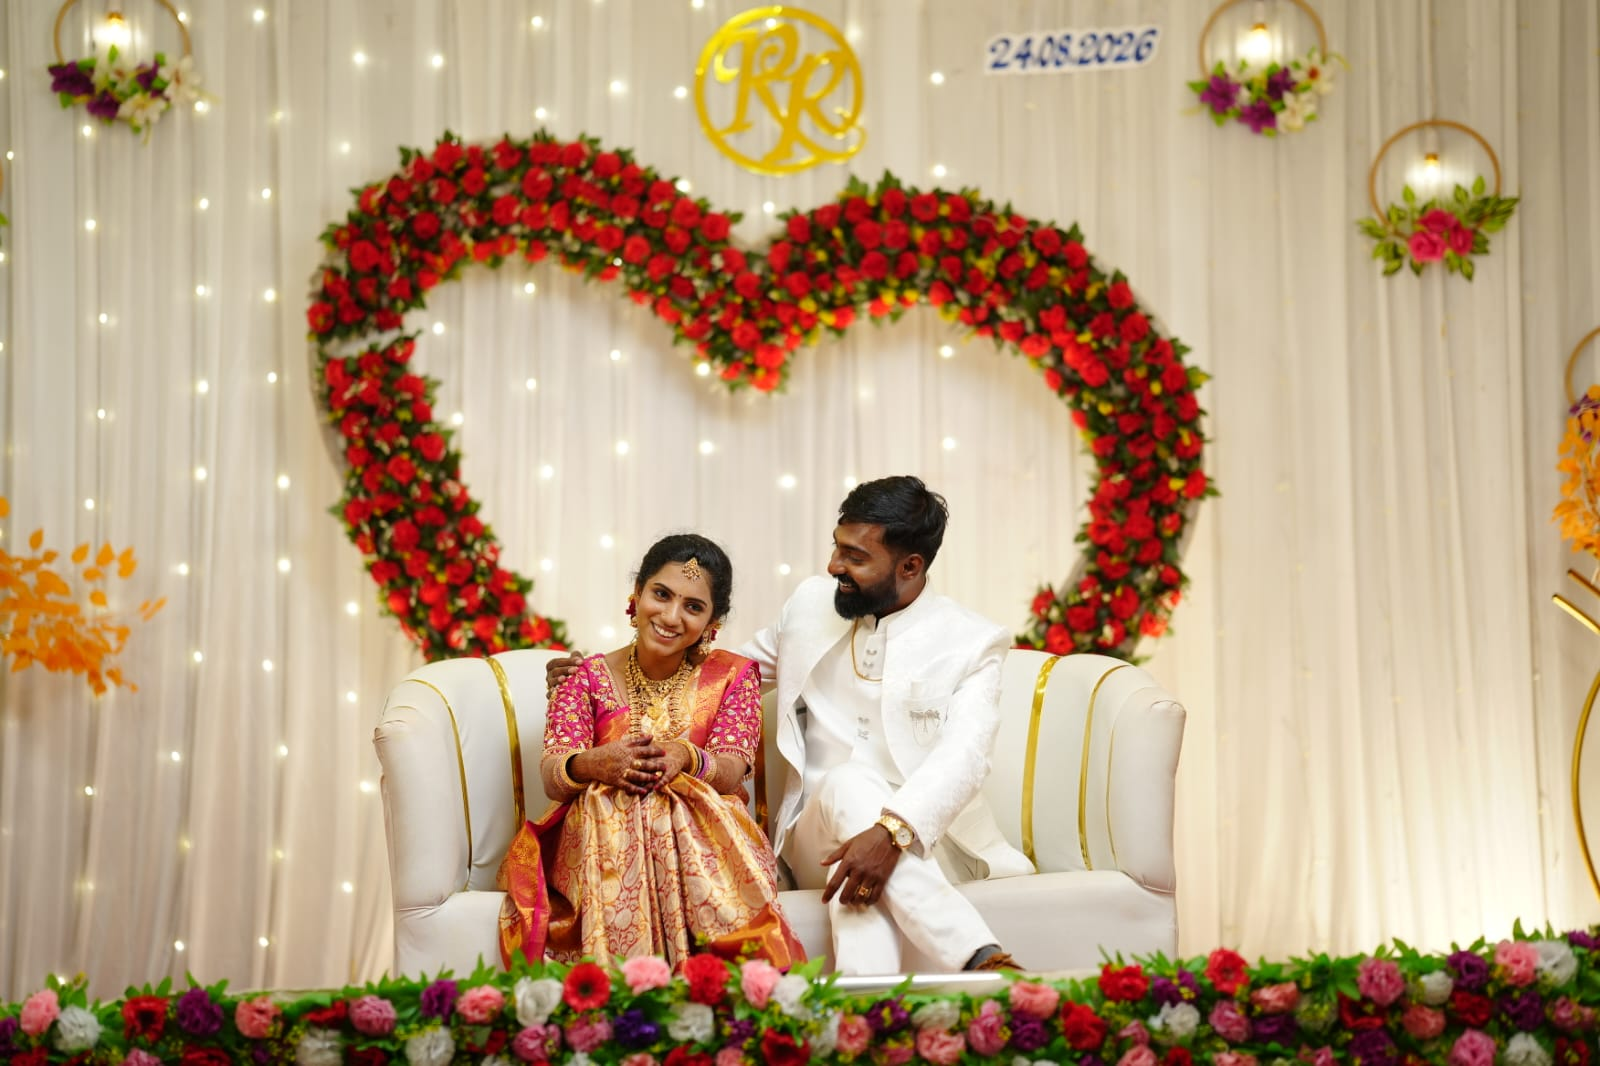
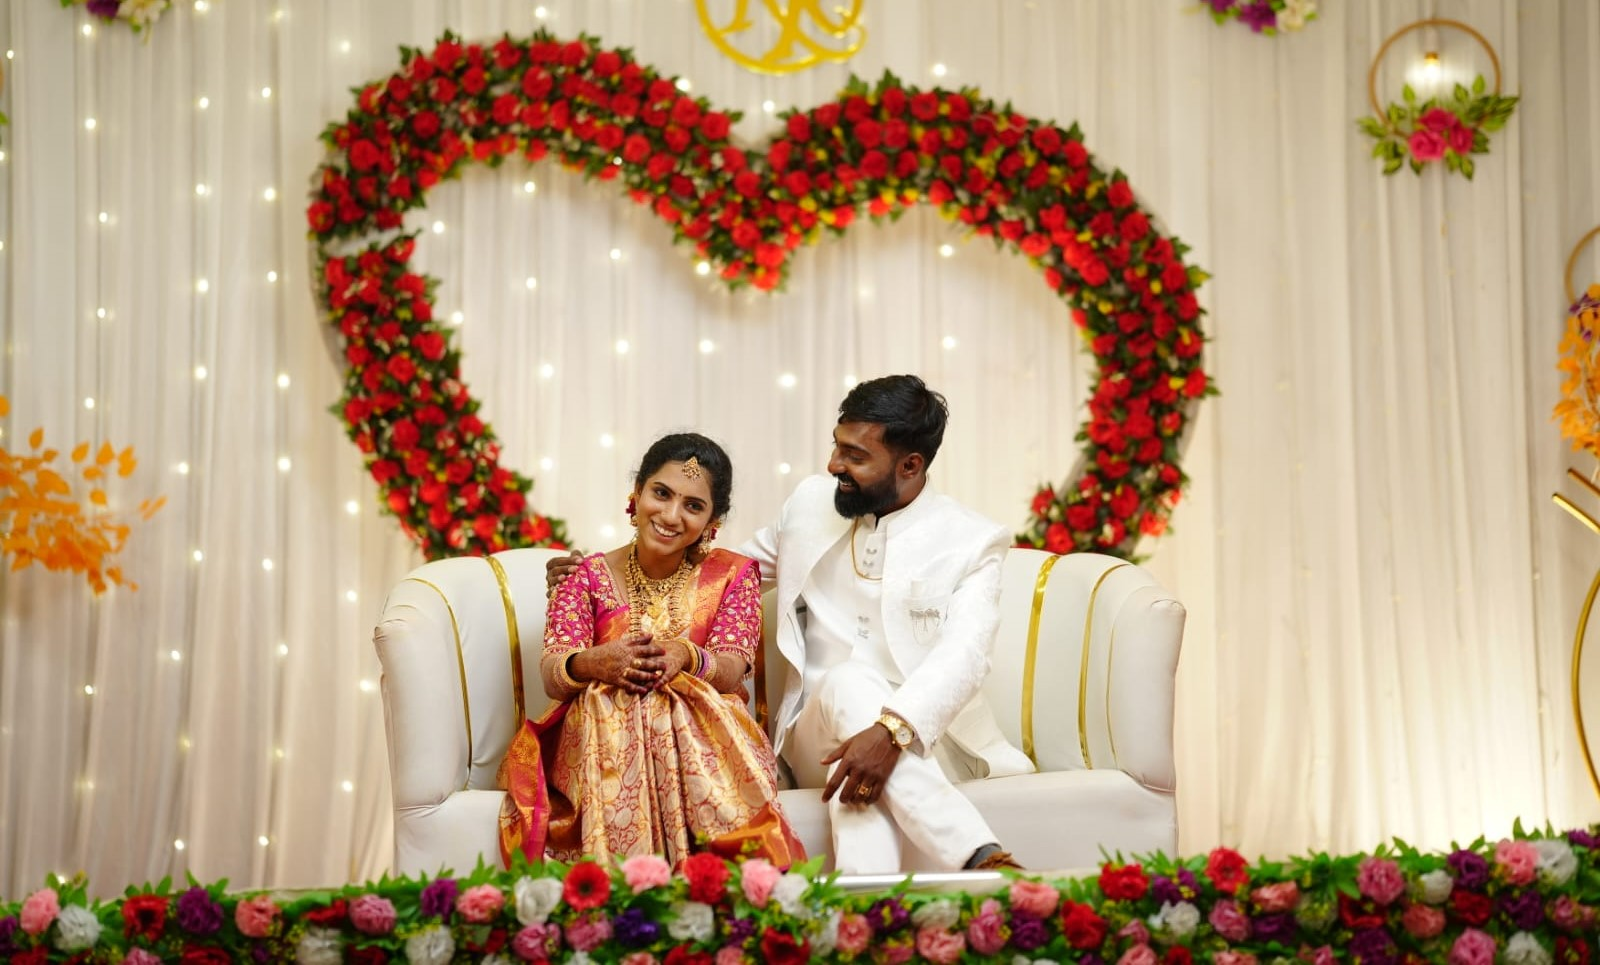
chnages update

diff --git a/styles.css b/styles.css
@@ -163,108 +163,6 @@ footer strong{
 
 
 
-
-/* =========================================================
-   FRONT PAGE — CENTER CLOSED -> SPLIT TO CORNERS
-   The rest of the V7 design is unchanged.
-   ========================================================= */
-
-#gate{
-  position:fixed;
-  inset:0;
-  z-index:100;
-  overflow:hidden;
-  cursor:pointer;
-  background:#f7efdf;
-  isolation:isolate;
-}
-
-.front-panel{
-  position:absolute;
-  top:0;
-  bottom:0;
-  width:50%;
-  z-index:2;
-  background-image:url("assets/front-cover.png");
-  background-repeat:no-repeat;
-  background-size:200% 100%;
-  box-shadow:0 0 0 1px rgba(173,135,64,.45);
-  will-change:transform;
-  transition:transform 1.35s cubic-bezier(.77,0,.18,1);
-}
-
-/* CLOSED STATE: both halves are together, forming one complete image. */
-.front-panel.left{
-  left:0;
-  background-position:left center;
-  transform:translateX(0);
-}
-.front-panel.right{
-  right:0;
-  background-position:right center;
-  transform:translateX(0);
-}
-
-/* Small center seam, like two elegant invitation doors. */
-#gate::after{
-  content:"";
-  position:absolute;
-  z-index:4;
-  left:50%;
-  top:0;
-  bottom:0;
-  width:2px;
-  transform:translateX(-50%);
-  background:linear-gradient(180deg,rgba(173,135,64,.15),rgba(173,135,64,.85),rgba(173,135,64,.15));
-  box-shadow:0 0 10px rgba(173,135,64,.25);
-  pointer-events:none;
-  opacity:.9;
-}
-
-/* On open: center -> left/right edges. */
-#gate.opened .front-panel.left{
-  transform:translateX(-100%);
-}
-#gate.opened .front-panel.right{
-  transform:translateX(100%);
-}
-#gate.opened::after{
-  opacity:0;
-  transition:opacity .3s ease;
-}
-#gate.opened{
-  pointer-events:none;
-}
-
-/* Gentle idle movement so the front page feels alive, without moving the split. */
-#gate:not(.opened) .front-panel{
-  animation:frontBreath 5s ease-in-out infinite;
-}
-@keyframes frontBreath{
-  0%,100%{filter:brightness(1) saturate(1)}
-  50%{filter:brightness(1.025) saturate(1.02)}
-}
-
-.sr-only{
-  position:absolute;
-  width:1px;
-  height:1px;
-  padding:0;
-  margin:-1px;
-  overflow:hidden;
-  clip:rect(0,0,0,0);
-  white-space:nowrap;
-  border:0;
-}
-
-@media(max-width:650px){
-  .front-panel{background-size:200% 100%;}
-}
-
-@media(prefers-reduced-motion:reduce){
-  .front-panel{animation:none!important;}
-}
-
 /* Venue */
 .map-preview {
   width: 100%;
@@ -280,3 +178,198 @@ footer strong{
   width: 100%;
   display: block;
 }
+
+
+/* FRONT PAGE — FULL-SCREEN INVITATION CARD OPENING */
+
+#gate.front-gate {
+  position: fixed;
+  inset: 0;
+  z-index: 1000;
+  display: grid;
+  place-items: center;
+  overflow: hidden;
+  cursor: pointer;
+  background: #f7efdf;
+  isolation: isolate;
+  perspective: 1800px;
+  opacity: 1;
+}
+
+/* Background stages */
+.front-stage {
+  position: absolute;
+  inset: 0;
+  overflow: hidden;
+  background-color: #f7efdf;
+  background-repeat: no-repeat;
+  background-position: center;
+  background-size: contain;
+}
+
+/* Couple image revealed after opening */
+.front-stage-couple {
+  z-index: 1;
+  background-image: url("assets/front-stages/couple-reveal.jpg");
+  background-size: contain;
+  background-position: center;
+  background-repeat: no-repeat;
+  background-color: #f7efdf;
+  opacity: 0;
+  transform: scale(1);
+  transition: opacity 0.7s ease;
+}
+
+/* Subtle image overlay */
+.front-stage-couple::after {
+  content: "";
+  position: absolute;
+  inset: 0;
+  z-index: 1;
+  pointer-events: none;
+  background: linear-gradient(
+    180deg,
+    rgba(35, 18, 12, 0.02),
+    transparent 20%,
+    transparent 80%,
+    rgba(35, 18, 12, 0.04)
+  );
+}
+
+/* Closed invitation cover */
+.front-stage-closed {
+  z-index: 2;
+  transform-style: preserve-3d;
+}
+
+/* Two card covers */
+.card-door {
+  position: absolute;
+  top: 0;
+  bottom: 0;
+  width: 50%;
+  z-index: 2;
+
+  background-image: url("assets/front-stages/invitation-closed.jpg");
+  background-repeat: no-repeat;
+  background-size: 200% 100%;
+
+  backface-visibility: hidden;
+  will-change: transform;
+
+  transition:
+    transform 1.25s cubic-bezier(0.72, 0.02, 0.25, 1),
+    filter 1.1s ease;
+
+  box-shadow: 0 0 24px rgba(48, 23, 16, 0.18);
+}
+
+.card-door-left {
+  left: 0;
+  background-position: left center;
+  transform-origin: left center;
+}
+
+.card-door-right {
+  right: 0;
+  background-position: right center;
+  transform-origin: right center;
+}
+
+/* Removed the center spine/vertical line */
+
+#gate.card-opening .card-door-left {
+  transform: rotateY(-105deg);
+  filter: brightness(0.85);
+}
+
+#gate.card-opening .card-door-right {
+  transform: rotateY(105deg);
+  filter: brightness(0.85);
+}
+
+#gate.show-couple .front-stage-couple {
+  opacity: 1;
+}
+
+#gate.show-couple .front-stage-closed {
+  visibility: hidden;
+  opacity: 0;
+  pointer-events: none;
+}
+
+/* Fade away before showing the main invitation */
+#gate.front-finished {
+  opacity: 0;
+  pointer-events: none;
+  transition: opacity 0.7s ease;
+}
+
+/* Tap-to-open hint */
+.front-hint {
+  position: absolute;
+  z-index: 6;
+  left: 50%;
+  bottom: max(22px, env(safe-area-inset-bottom));
+  transform: translateX(-50%);
+
+  padding: 12px 22px;
+  border-radius: 999px;
+  background: rgba(74, 45, 40, 0.9);
+  color: #fffaf0;
+  border: 1px solid rgba(213, 184, 117, 0.9);
+
+  font: 700 12px/1.3 Montserrat, Arial, sans-serif;
+  letter-spacing: 0.08em;
+  text-align: center;
+  box-shadow: 0 8px 25px rgba(45, 25, 18, 0.2);
+
+  animation: frontHintPulse 2s ease-in-out infinite;
+}
+
+#gate.card-opening .front-hint {
+  opacity: 0;
+  transition: opacity 0.3s ease;
+  pointer-events: none;
+}
+
+@keyframes frontHintPulse {
+  0%, 100% {
+    transform: translateX(-50%) scale(1);
+  }
+  50% {
+    transform: translateX(-50%) scale(1.035);
+  }
+}
+
+/* Mobile: use portrait artwork to fill the screen */
+@media (max-width: 650px), (max-aspect-ratio: 3/4) {
+  .front-stage-couple {
+    background-image: url("assets/front-stages/couple-reveal-mobile.png");
+    background-size: cover;
+    background-position: center center;
+    background-repeat: no-repeat;
+    background-color: #f7efdf;
+  }
+
+  .front-hint {
+    bottom: max(18px, env(safe-area-inset-bottom));
+    font-size: 10px;
+    padding: 11px 17px;
+    max-width: 90vw;
+  }
+}
+
+/* Respect reduced-motion preferences */
+@media (prefers-reduced-motion: reduce) {
+  .card-door,
+  .front-stage-couple,
+  .front-hint {
+    transition: none;
+    animation: none !important;
+  }
+}
+
+
+
+

diff --git a/script.js b/script.js
@@ -1,43 +1,35 @@
 const gate = document.getElementById('gate');
-const openButton = document.getElementById('openButton');
+const frontClosed = document.getElementById('frontClosed');
+const frontCouple = document.getElementById('frontCouple');
+const frontHint = document.getElementById('frontHint');
 document.body.style.overflow = 'hidden';
 
-// ---------------- Opening gate ----------------
-// New V7 front animation:
-// 1) Groom enters from the left corner.
-// 2) Bride enters from the right corner.
-// 3) They meet at the center.
-// 4) Visitor clicks/taps/swipes to open.
-// 5) The two panels then separate outward to reveal the unchanged V7 website.
-function openGate(){
-  if(gate.classList.contains('opened')) return;
-  gate.classList.add('opened');
-  document.body.style.overflow = '';
+// Front sequence: invitation card flips open -> couple illustration -> unchanged second page.
+let openingStarted = false;
+function startOpening(){
+  if(openingStarted) return;
+  openingStarted = true;
   startMusic();
-  setTimeout(()=>{ gate.style.display='none'; },1300);
-}
-gate.addEventListener('click', e=>{
-  if(e.target.closest('#openButton')) return;
-  openGate();
-});
-openButton?.addEventListener('click', e=>{
-  e.stopPropagation();
-  openGate();
-});
-gate.addEventListener('keydown', e=>{
-  if(e.key==='Enter' || e.key===' '){ e.preventDefault(); openGate(); }
-});
+  gate.classList.add('card-opening');
 
-let gateTouchStartX = null;
-gate.addEventListener('touchstart', e=>{
-  gateTouchStartX = e.changedTouches[0].clientX;
-},{passive:true});
-gate.addEventListener('touchend', e=>{
-  if(gateTouchStartX === null) return;
-  const dx = e.changedTouches[0].clientX - gateTouchStartX;
-  if(Math.abs(dx) > 35) openGate();
-  gateTouchStartX = null;
-},{passive:true});
+  // The two cover halves swing outward like a real invitation book.
+  // Reveal the full-screen illustrated couple once the cover has opened.
+  window.setTimeout(()=>{
+    gate.classList.add('show-couple');
+    if(frontHint) frontHint.textContent = 'Rishi ♥ Ramya';
+  }, 900);
+
+  // Hold the couple portrait, then fade to the untouched second page.
+  window.setTimeout(()=>{
+    gate.classList.add('front-finished');
+    document.body.style.overflow = '';
+    window.setTimeout(()=>{ gate.style.display='none'; },750);
+  }, 3500);
+}
+gate.addEventListener('click', startOpening);
+gate.addEventListener('keydown', e=>{
+  if(e.key==='Enter' || e.key===' '){e.preventDefault();startOpening();}
+});
 
 // ---------------- Countdown ----------------
 const weddingDate = new Date('2026-11-11T09:05:00');

diff --git a/index.html b/index.html
@@ -11,10 +11,15 @@
 </head>
 <body>
 
-<div id="gate" role="button" tabindex="0" aria-label="Slide to open your invitation">
-  <div class="front-panel left" aria-hidden="true"></div>
-  <div class="front-panel right" aria-hidden="true"></div>
-  <span class="sr-only">Rishi and Ramya wedding invitation. Slide or tap to open.</span>
+<div id="gate" class="front-gate" role="button" tabindex="0" aria-label="Tap anywhere to open the wedding invitation">
+  <div id="frontCouple" class="front-stage front-stage-couple" aria-hidden="true"></div>
+  <div id="frontClosed" class="front-stage front-stage-closed" aria-hidden="true">
+    <div class="card-door card-door-left"></div>
+    <div class="card-door card-door-right"></div>
+    <div class="card-spine"></div>
+  </div>
+  <div id="frontHint" class="front-hint">Tap anywhere to open invitation</div>
+  <!-- <span class="sr-only">Tap anywhere to open the invitation and reveal Rishi and Ramya.</span> -->
 </div>
 
 <main>
